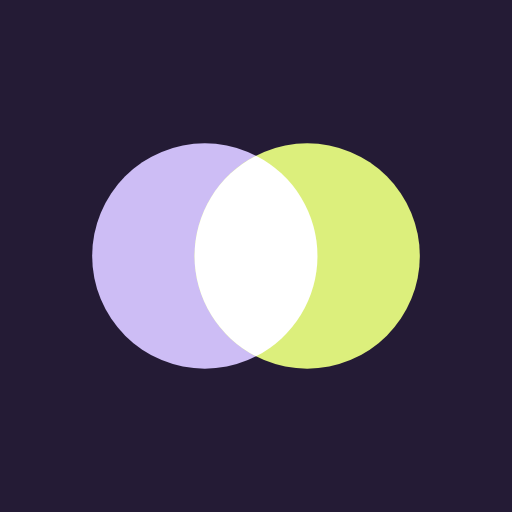
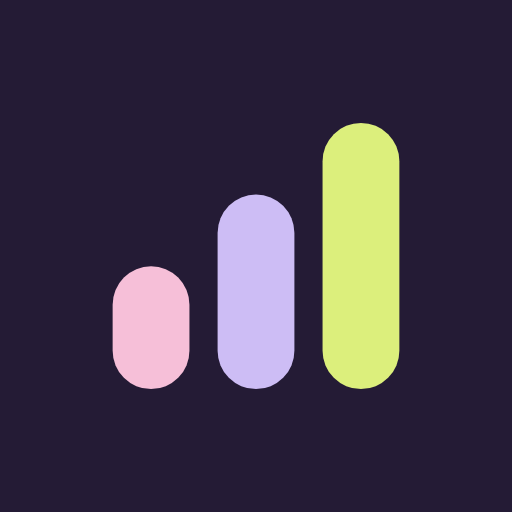
4 paletas, cartão do mês nos lançamentos, símbolo de barras e tamanhos mais calmos
- só 4 paletas no mesmo estilo (ameixa, oceano, floresta, vinho); planê e cor livre saem
- lançamentos volta a ter o cartão do mês: balanço, entrou/contas/gastos, contas pagas e falta
- símbolo: três barras subindo nas cores do app (gráfico de finanças)
- topo com saudação e foto mais nítidas; títulos e números menores e consistentes

Claude-Session: https://claude.ai/code/session_01WEgCk37QkmKw8MMaPhHFy9

Changed region(s): [[0.1562, 0.2188, 0.7812, 0.7812], [0.7812, 0.375, 0.8438, 0.625]]

diff --git a/index.html b/index.html
@@ -512,6 +512,39 @@ body:has(.scrim){overflow:hidden}
 .btn.dark{background:var(--ink);color:var(--on-ink);box-shadow:none}
 .link{color:var(--rose)}
 .legend .sw,.dleg i{border-radius:50%}
+
+/* ---------- v6: calmer sizes, one rhythm ---------- */
+.big{font-size:clamp(1.65rem,7.2vw,2.2rem);letter-spacing:-.04em;line-height:1.08;margin:2px 0 0}
+.tile .t-big{font-size:clamp(1.2rem,5.4vw,1.55rem)}
+.tile h2,.card-h h2,.sec-h h2{font-size:1rem}
+.cap{width:50px;height:60px;font-size:.82rem}.cap.ano{height:60px}
+.qk{padding:12px;gap:10px}.qk .t-ico{width:34px;height:34px}
+.ring,.ring svg{width:104px;height:104px}.prog{grid-template-columns:104px minmax(0,1fr)}
+.ring .rc b{font-size:1.4rem}
+.pl3 b{font-size:.95rem}
+.main{gap:14px}
+@media (max-width:700px){
+  .appbar{gap:12px}
+  .appbar .mark{width:44px;height:44px;box-shadow:0 0 0 2px var(--surface),0 0 0 3px var(--bd)}
+  .appbar .who small{font-size:.8rem;color:var(--ink-2);font-weight:500}
+  .appbar .who b{font-size:1.02rem;font-weight:700;color:var(--ink)}
+}
+.mark img{image-rendering:auto;transform:translateZ(0)}
+/* the month card (lançamentos) */
+.resumo{background:var(--hero);color:#fff;border-radius:var(--r);padding:18px;display:flex;flex-direction:column;gap:14px}
+.rs-main>span{display:block;font-size:.8rem;opacity:.7}
+.rs-main b{display:block;font-size:1.8rem;font-weight:800;letter-spacing:-.04em;line-height:1.15;white-space:nowrap}
+.rs-main b.neg{color:var(--pink)}
+.rs-main b .brl{opacity:.85}
+.resumo .kv{border-top:1px solid rgba(255,255,255,.14);padding-top:12px}
+.resumo .kv>div+div{border-left-color:rgba(255,255,255,.14)}
+.resumo .bar2{height:5px;border-radius:99px;background:rgba(255,255,255,.16);overflow:hidden}.resumo .bar2 i{display:block;height:100%;border-radius:99px;background:var(--lime)}
+.resumo .barl{display:flex;justify-content:space-between;gap:8px;margin-top:7px;font-size:.76rem;opacity:.8}.resumo .barl b{font-weight:700}
+@media (min-width:900px){.resumo{display:grid;grid-template-columns:auto minmax(0,1fr) minmax(0,.9fr);align-items:center;gap:28px;padding:22px 26px}.resumo .kv{border-top:0;padding-top:0;border-left:1px solid rgba(255,255,255,.14);padding-left:24px}}
+.seg3 button{min-height:46px}
+.tema .sw2{width:40px;height:40px}
+@media (min-width:1100px){.seg.lanc-sp{display:none}}
+.temas:has([data-tema]){grid-template-columns:repeat(4,minmax(0,1fr))}
 </style>
 
 <header class="topnav">
@@ -632,22 +665,19 @@ const uid=()=>'n'+Date.now().toString(36)+Math.random().toString(36).slice(2,7);
 // each phone keeps its own pick in localStorage; the default is the planê palette.
 const TEMAS=[
   ['nova','ameixa',{ink:'#241b35',acc:'#7b5ce0',paper:'#f4f2ee'}],
-  ['plane','planê',{ink:'#33414d',acc:'#ad7466',paper:'#f5f0ed'}],
-  ['cafe','café',{ink:'#4a2a26',acc:'#a65a40',paper:'#f6f1ea'}],
-  ['salvia','sálvia',{ink:'#2f4a3f',acc:'#7b9a68',paper:'#f1f2ea'}],
-  ['oceano','oceano',{ink:'#1f3b57',acc:'#3d7fb8',paper:'#eef2f5'}],
-  ['lavanda','lavanda',{ink:'#3d3552',acc:'#8a6fb8',paper:'#f4f1f7'}],
-  ['terracota','terracota',{ink:'#5a2f22',acc:'#c4643c',paper:'#f7efe8'}],
-  ['rosa','rosa',{ink:'#4d2a3a',acc:'#cf6390',paper:'#f8eff2'}],
-  ['ouro','noite e ouro',{ink:'#1f2024',acc:'#b8954f',paper:'#f3f1ec'}],
-];
+  ['oceano','oceano',{ink:'#132a42',acc:'#3478d4',paper:'#f1f4f7'}],
+  ['floresta','floresta',{ink:'#18302a',acc:'#2c9a6c',paper:'#f2f4ef'}],
+  ['vinho','vinho',{ink:'#3a1424',acc:'#d0457b',paper:'#f6f1f2'}],
+]
 const hx=h=>{h=h.replace('#','');return [0,2,4].map(i=>parseInt(h.slice(i,i+2),16))};
 const mixHex=(a,b,t)=>'#'+hx(a).map((v,i)=>Math.round(v*(1-t)+hx(b)[i]*t).toString(16).padStart(2,'0')).join('');
 let tema={id:'nova',...TEMAS[0][2]};
 // the old default (planê, never picked by hand) moves to the new look; a color someone chose stays
-const temaOk=t=>t&&t.ink&&t.acc&&t.paper&&!(t.id==='plane'&&!t.escolhido);
+// only the four palettes exist; anything else saved before (planê, custom, older ones) becomes ameixa
+const temaDe=t=>{ const f=TEMAS.find(x=>x[0]===t?.id)||TEMAS[0]; return {id:f[0],...f[2]}; };
+const temaOk=t=>!!t;
 function applyTema(t){
-  if(t){ if(temaOk(t)) tema=t; } else { try{ const s=JSON.parse(localStorage.getItem('fin-tema')||'null'); if(temaOk(s)) tema=s; }catch(e){} }
+  if(t) tema=temaDe(t); else { try{ const s=JSON.parse(localStorage.getItem('fin-tema')||'null'); if(s) tema=temaDe(s); }catch(e){} }
   const r=document.documentElement.style; r.setProperty('--c-ink',tema.ink); r.setProperty('--c-acc',tema.acc); r.setProperty('--c-paper',tema.paper);
   const dark=document.documentElement.dataset.theme==='dark'||(document.documentElement.dataset.theme!=='light'&&matchMedia('(prefers-color-scheme: dark)').matches);
   document.querySelector('meta[name="theme-color"]')?.setAttribute('content',dark?mixHex(tema.ink,'#121416',.7):tema.paper);
@@ -659,7 +689,7 @@ applyTema();
 
 // ---------- app icon per device ----------
 const ICONES=[['marca','símbolo']];
-const marcaSvg=(bg)=>`<svg class="marca" viewBox="0 0 100 100" aria-hidden="true">${bg?`<rect width="100" height="100" rx="${bg==='sq'?0:30}" fill="${tema.ink}"/>`:''}<circle cx="40" cy="50" r="22" fill="#cdbdf5"/><circle cx="60" cy="50" r="22" fill="#dcef7c"/><path d="M50 30.4A22 22 0 0 1 50 69.6A22 22 0 0 1 50 30.4Z" fill="#fff"/></svg>`;
+const marcaSvg=(bg)=>`<svg class="marca" viewBox="0 0 100 100" aria-hidden="true">${bg?`<rect width="100" height="100" rx="${bg==='sq'?0:30}" fill="${tema.ink}"/>`:''}<rect x="22" y="52" width="15" height="24" rx="7.5" fill="#f6bfd8"/><rect x="42.5" y="38" width="15" height="38" rx="7.5" fill="#cdbdf5"/><rect x="63" y="24" width="15" height="52" rx="7.5" fill="#dcef7c"/></svg>`;
 let icone={id:'wallet'};
 try{ const s=JSON.parse(localStorage.getItem('fin-icone')||'null'); if(s&&s.id) icone={...icone,...s}; }catch(e){}
 let foto=null; try{ foto=localStorage.getItem('fin-foto')||null; }catch(e){}
@@ -721,9 +751,9 @@ function fundoDesfocado(im,size){ const k=Math.max(size/im.width,size/im.height)
   const a=document.createElement('canvas'); a.width=a.height=20; a.getContext('2d').drawImage(im,(20-w*20/size)/2,(20-h*20/size)/2,w*20/size,h*20/size);
   let src=a; for(const n of [48,120,260]){ const b=document.createElement('canvas'); b.width=b.height=n; const bx=b.getContext('2d'); bx.imageSmoothingQuality='high'; bx.drawImage(src,0,0,n,n); src=b; } return src; }
 function cropSalvar(){ const c=crop, s=cropFix(), f=512/CW, w=c.im.width*s, h=c.im.height*s;
-  const cv=document.createElement('canvas'); cv.width=cv.height=512; const x=cv.getContext('2d'); x.fillStyle=tema.paper; x.fillRect(0,0,512,512);
+  const cv=document.createElement('canvas'); cv.width=cv.height=512; const x=cv.getContext('2d'); x.imageSmoothingQuality='high'; x.fillStyle=tema.paper; x.fillRect(0,0,512,512);
   if(w<CW||h<CW){ x.imageSmoothingQuality='high'; x.drawImage(fundoDesfocado(c.im,512),-20,-20,552,552); }
-  x.drawImage(c.im,(CW/2+c.x-w/2)*f,(CW/2+c.y-h/2)*f,w*f,h*f); return cv.toDataURL('image/jpeg',.85); }
+  x.drawImage(c.im,(CW/2+c.x-w/2)*f,(CW/2+c.y-h/2)*f,w*f,h*f); return cv.toDataURL('image/jpeg',.92); }
 // keeps a reduced copy of the original on this phone, so "ajustar" can reframe without losing quality
 function lerOriginal(file){ return new Promise((ok,no)=>{ const r=new FileReader(); r.onload=()=>{ const im=new Image(); im.onload=()=>{ const k=Math.min(1,1400/Math.max(im.width,im.height)), c=document.createElement('canvas'); c.width=Math.round(im.width*k); c.height=Math.round(im.height*k); c.getContext('2d').drawImage(im,0,0,c.width,c.height); ok(c.toDataURL('image/jpeg',.86)); }; im.onerror=no; im.src=r.result; }; r.onerror=no; r.readAsDataURL(file); }); }
 function lerFoto(file){ return new Promise((ok,no)=>{ const r=new FileReader(); r.onload=()=>{ const im=new Image(); im.onload=()=>{ const k=Math.min(im.width,im.height), c=document.createElement('canvas'); c.width=c.height=512; c.getContext('2d').drawImage(im,(im.width-k)/2,(im.height-k)/2,k,k,0,0,512,512); ok(c.toDataURL('image/jpeg',.82)); }; im.onerror=no; im.src=r.result; }; r.onerror=no; r.readAsDataURL(file); }); }
@@ -1013,6 +1043,15 @@ function pInicio(){
 }
 // a ring for "how much is done": pct 0..1
 const ring=(pct,label)=>{ const R=48,C=2*Math.PI*R; return `<div class="ring"><svg viewBox="0 0 118 118" aria-hidden="true"><circle cx="59" cy="59" r="${R}" fill="none" stroke="rgba(255,255,255,.55)" stroke-width="11"/><circle cx="59" cy="59" r="${R}" fill="none" stroke="var(--c-acc)" stroke-width="11" stroke-linecap="round" stroke-dasharray="${(Math.max(.001,pct)*C).toFixed(1)} ${C.toFixed(1)}"/></svg><span class="rc"><b>${Math.round(pct*100)}<small>%</small></b><em>${label}</em></span></div>`; };
+// the month in one card: balance, the three totals, how the bills are going
+function resumoCard(m){
+  const r=resumo(m), contas=ofMes(m,'conta'), falta=sumResta(contas), pagas=contas.filter(c=>c.pago).length, pg=r.C-falta;
+  return `<section class="resumo">
+    <div class="rs-main"><span>balanço do mês</span><b class="num ${r.S<0?'neg':''}">${r.S<0?'−':'+'}${fmt(Math.abs(r.S))}</b></div>
+    <div class="kv"><div><span>entrou</span><b class="num">${fmt(r.E)}</b></div><div><span>contas</span><b class="num">${fmt(r.C)}</b></div><div><span>gastos</span><b class="num">${fmt(r.G)}</b></div></div>
+    ${contas.length?`<div><div class="bar2"><i style="width:${r.C?pg/r.C*100:0}%"></i></div><div class="barl"><span>${pagas} de ${contas.length} contas pagas</span><span>${falta?`falta <b class="num">${fmt(falta)}</b>`:'tudo pago'}</span></div></div>`:''}
+  </section>`;
+}
 function progTile(m){
   const r=resumo(m), contas=ofMes(m,'conta'), falta=sumResta(contas), pagas=contas.filter(c=>c.pago).length, pct=r.C?(r.C-falta)/r.C:0;
   return `<section class="tile t-lilac span2"><div class="t-top"><h2>contas do <span class="script">mês</span></h2><button class="t-go" data-vercontas="1" aria-label="ver contas">${ic('ne','sm')}</button></div>
@@ -1032,12 +1071,13 @@ const SEC={entrada:['entradas','entrada'],conta:['contas','conta'],gasto:['saíd
 const PFX={entrada:'ae',conta:'ac',gasto:'ag'};
 function pLanc(){
   const m=ui.mes, r=resumo(m);
-  let h=ui.busca?`<h1 class="big">buscar <span class="script">em tudo</span></h1>`:`<h1 class="big">seus <span class="script">lançamentos</span></h1>`+monthNav();
+  let h=ui.busca?`<h1 class="big">buscar <span class="script">em tudo</span></h1>`:`<h1 class="big">${mName(m)} <span class="script">${m.slice(0,4)}</span></h1>`+monthNav();
   if(ui.buscaOn||ui.busca) h+=`<label class="busca">${ic('search','sm')}<input id="q-busca" data-keep type="search" placeholder="buscar em todos os meses" value="${esc(ui.busca||'')}" enterkeyhint="search" aria-label="buscar em todos os meses"><button class="icbtn" data-buscax="1" aria-label="fechar busca">${ic('x','sm')}</button></label>`;
   if(ui.busca) return h+vBusca(ui.busca);
   const L={entrada:ofMes(m,'entrada').sort(byDate),conta:ofMes(m,'conta').sort(byDate),gasto:ofMes(m,'gasto')}, T={entrada:r.E,conta:r.C,gasto:r.G};
+  h+=resumoCard(m);
   const lt=ui.lt||'gastos', ativo={entradas:'entrada',contas:'conta',gastos:'gasto'}[lt]||'gasto';
-  h+=`<div class="seg seg3 lanc-sp" role="tablist">${[['gastos','saídas','gasto'],['contas','contas','conta'],['entradas','entradas','entrada']].map(([k,l,t])=>`<button type="button" role="tab" data-lt="${k}" aria-pressed="${lt===k}"><span>${l} <i>${L[t].length}</i></span><small class="num">${fmt(T[t])}</small></button>`).join('')}</div>`;
+  h+=`<div class="seg seg3 lanc-sp" role="tablist">${[['gastos','saídas','gasto'],['contas','contas','conta'],['entradas','entradas','entrada']].map(([k,l,t])=>`<button type="button" role="tab" data-lt="${k}" aria-pressed="${lt===k}"><span>${l} <i>${L[t].length}</i></span></button>`).join('')}</div>`;
   const todas=innerWidth>=1100;
   h+=`<div class="folha3">${['entrada','conta','gasto'].filter(k=>todas||k===ativo).map(k=>lista(k,L[k],T[k])).join('')}</div>`;
   return h;
@@ -1370,8 +1410,7 @@ function pAjustes(){
       <span style="display:flex;gap:8px;flex-wrap:wrap"><label class="pill-btn fileb">${temFoto?'trocar':'escolher foto'}<input type="file" id="fotoFile" accept="image/*" aria-label="escolher foto"></label>${temFoto?`<button class="pill-btn" data-fotoaj="1">ajustar</button><button class="pill-btn" data-fotodel="1">remover</button>`:''}</span></div></section>
 </div>
   <div class="col"><section class="card"><div class="card-h"><h2>sua <span class="script">cor</span></h2><span class="sub">cada um escolhe a sua</span></div>
-    <div class="temas">${TEMAS.map(([id,nome,c])=>`<button class="tema" data-tema="${id}" aria-pressed="${tema.id===id}"><span class="sw2" style="background:linear-gradient(135deg,${c.ink} 50%,${c.acc} 50%)"></span>${nome}</button>`).join('')}
-      <label class="tema" aria-pressed="${tema.id==='custom'}"><span class="sw2" style="background:conic-gradient(#e0707a,#e6b85c,#7bb07a,#5c9bd6,#9b7ad0,#e0707a)"><input type="color" id="temaCor" value="${tema.acc}" aria-label="escolher qualquer cor"></span>escolher</label></div></section></div></div>`;
+    <div class="temas">${TEMAS.map(([id,nome,c])=>`<button class="tema" data-tema="${id}" aria-pressed="${tema.id===id}"><span class="sw2" style="background:linear-gradient(135deg,${c.ink} 50%,${c.acc} 50%)"></span>${nome}</button>`).join('')}</div></section></div></div>`;
   h+=`<p class="sec-t">dinheiro</p>
   <section class="card" id="metas"><div class="card-h"><h2>metas <span class="script">por mês</span></h2><span class="sub">vazio = sem meta</span></div>
     <div class="metas">${METACATS.map(c=>{ const v=metas()[c], md=media3(today().slice(0,7),c); return `<label class="mrow"><span><span class="dot" style="background:${c===TOTAL?'var(--ink)':CATC[c]}"></span><b>${esc(c)}</b><small>${md?`média recente ${fmt(md)}`:'sem gastos recentes'}</small></span><input data-meta="${esc(c)}" inputmode="decimal" placeholder="sem meta" value="${v?String(v).replace('.',','):''}" ${canWrite?'':'disabled'} aria-label="meta de ${esc(c)}"></label>`; }).join('')}</div></section>

diff --git a/sw.js b/sw.js
@@ -1,6 +1,6 @@
 // keeps the app shell on the phone so it opens instantly; always tries the network first for the page itself,
 // so a new version shows up on the next open. data (supabase) is never cached here.
-const CACHE='financeiro-v46';
+const CACHE='financeiro-v47';
 const SHELL=['./','index.html','config.js','manifest.webmanifest','icons/icon-192.png','icons/apple-touch-icon.png'];
 // a new version waits until someone taps "atualizar" in the app (or the app is closed and opened again)
 self.addEventListener('install',e=>{ e.waitUntil(caches.open(CACHE).then(c=>c.addAll(SHELL))); });
